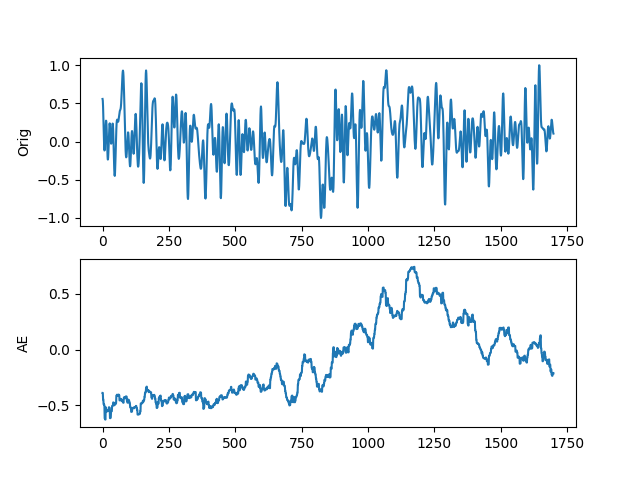
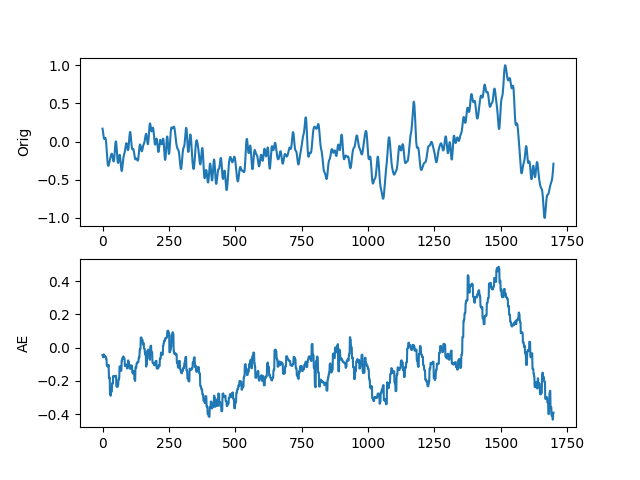
ae updated

diff --git a/utils/utils.py b/utils/utils.py
@@ -27,6 +27,11 @@ begin_time = last_time
 def test(model, dataloader, config, name_str):
     if config.maj_vote:
        return test_majority_voting(model, dataloader, config, name_str)
+    trans_net = None
+    if config.transform != None:
+       trans_net = trans_loader(config)
+       tras_net.eval()
+
     model.eval()
     correct = 0
     total = 0
@@ -35,7 +40,7 @@ def test(model, dataloader, config, name_str):
     with torch.no_grad():
         for batch_idx, (inputs, targets, subjects) in enumerate(dataloader):
             inputs, targets = inputs.to(config.device), targets.to(config.device)
-            outputs = get_outputs(model, inputs, config)
+            outputs = get_outputs(model, inputs, config, transformer=trans_net)
             _, predicted = outputs.max(1)
             #predicted = outputs.round()
             total += targets.size(0)
@@ -55,13 +60,18 @@ def test_majority_voting(model, dataloader, config, name_str):
     model.eval()
     correct = 0
     total = 0
+    trans_net = None
+    if config.transform != None:
+       trans_net = trans_loader(config)
+       trans_net.eval()
+
     results = torch.tensor([]).to(config.device)
     if config.apply_gauss:
        gauss_obj = GaussianFourierFeatureTransform(1, config.mapping_size, 10)
     with torch.no_grad():
         for batch_idx, (inputs, targets, subjects, trials, conditions) in enumerate(dataloader):
             inputs, targets, trials, conditions = inputs.to(config.device), targets.to(config.device), trials.to(config.device), conditions.to(config.device)
-            outputs = get_outputs(model, inputs, config)
+            outputs = get_outputs(model, inputs, config, transformer=trans_net)
             _, predicted = outputs.max(1)
             #predicted = outputs.round()
             total += targets.size(0)
@@ -96,11 +106,13 @@ def test_majority_voting(model, dataloader, config, name_str):
     return 100.*correct/total, subjects
 
 
-def get_outputs(net, inputs, config):
+def get_outputs(net, inputs, config, transformer=None):
     if config.apply_gauss:
        inputs = GaussianFourierFeatureTransform(inputs.reshape(-1,1,config.window_len,config.n_channels),config)
 #    if config.model_type == 'eegnet' or config.model_type == 'shalloweeg':
  #      inputs = inputs.permute(0,2,1)
+    if transformer != None:
+       inputs = transformer.get_feature(inputs)
     if config.model_type == 'capsnet':
        outputs, reconstructions, masked = net(inputs)
        outputs = outputs.reshape(-1,config.n_classes)
@@ -136,7 +148,7 @@ def Normalize(ave, std, x):
     return ((x-ave)/std)
 
 def scale(X):
-    min_des, max_des = -1, 1
+    min_des, max_des = -4, 4
     X_std = (X - X.min(axis=0)) / (X.max(axis=0) - X.min(axis=0))
     X_scaled = X_std * (max_des - min_des) + min_des
     return X_scaled
@@ -164,6 +176,21 @@ def onehot_encode(labels, device):
     onehot_tensor = onehot_tensor.scatter(1, labels.view(-1, 1), 1)
     onehot_tensor = onehot_tensor.to(device)
     return onehot_tensor
+
+def trans_loader(config):
+    if config.transform == 'ae':
+       from models.ae import AE
+       net = AE(config)
+    elif config.transform == 'aelinear':
+       from models.ae_linear import AELinear
+       net = AELinear(config)
+    elif config.transform == 'aelstm':
+       from models.ae_lstm import AEGRU
+       net = AEGRU(config)
+    net = net.to(config.device)
+    net.load_state_dict(torch.load('./checkpoint/Net_'+config.transform+'.pth'))
+    return net
+
 
 def model_loader(config, kernel_size):
     if config.model_type == 'cnn':
@@ -199,6 +226,9 @@ def model_loader(config, kernel_size):
     elif config.model_type == 'aelstm':
        from models.ae_lstm import AEGRU
        return AEGRU(config)
+    elif config.model_type == 'mlp':
+       from models.mlp import MLP
+       return MLP(config)
     else:
        return False
 
@@ -216,7 +246,7 @@ def data_loader(batch_size, num_workers, transform, valid_check, config, add_tri
     testset  = HDF5Dataset('./data/test_'+name_str+'.h5', config, add_trial=add_trial)
 
     trainloader = torch.utils.data.DataLoader(trainset, batch_size=batch_size, shuffle=True,  num_workers=num_workers, pin_memory=True)
-    testloader  = torch.utils.data.DataLoader(testset,  batch_size=batch_size, shuffle=True, num_workers=num_workers, pin_memory=False)
+    testloader  = torch.utils.data.DataLoader(testset,  batch_size=batch_size, shuffle=False, num_workers=num_workers, pin_memory=False)
     if valid_check:
        validloader = torch.utils.data.DataLoader(validset, batch_size=batch_size, shuffle=True, num_workers=num_workers, pin_memory=False)
        return trainloader, validloader, testloader

diff --git a/models/ae_linear.py b/models/ae_linear.py
@@ -4,13 +4,13 @@ import torch.nn as nn
 class Encoder(nn.Module):
     def __init__(self, n_channels, w_shape, h_shape, out_dim):
         super(Encoder, self).__init__()
-        self.fn1   = nn.Linear(n_channels*w_shape*h_shape, 1024)
+        self.fc1   = nn.Linear(n_channels*w_shape*h_shape, 1024)
         self.bn1   = nn.BatchNorm1d(1024)
 
-        self.fn2   = nn.Linear(1024, 128)
+        self.fc2   = nn.Linear(1024, 128)
         self.bn2   = nn.BatchNorm1d(128)
 
-        self.fn3   = nn.Linear(128, out_dim)
+        self.fc3   = nn.Linear(128, out_dim)
 
         self.relu     = nn.ReLU()
         self.tanh     = nn.Tanh()
@@ -18,17 +18,26 @@ class Encoder(nn.Module):
 
     def forward(self, x):
         x   = self.flatten(x)
-        x   = self.relu(self.bn1(self.fn1(x)))
-        x   = self.relu(self.bn2(self.fn2(x)))
-        x   = self.tanh(self.fn3(x))
+        x   = self.relu(self.bn1(self.fc1(x)))
+        x   = self.relu(self.bn2(self.fc2(x)))
+        x   = self.tanh(self.fc3(x))
         return x
 
 class Decoder(nn.Module):
-    def __init__(self, in_dim, out_dim):
+    def __init__(self, in_dim, h_shape, out_dim):
         super(Decoder, self).__init__()
-        self.h_shape, self.in_channels = 415, 1
+        self.h_shape, self.channels = h_shape, out_dim
+#        self.h_shape, self.in_channels = 415, 1
         kernel_size    = 5
-        self.linear    = nn.Linear(in_dim, self.in_channels*self.h_shape)
+        self.fc1    = nn.Linear(in_dim, 256)
+        self.bn1   = nn.BatchNorm1d(256)
+
+        self.fc2   = nn.Linear(256, 512)
+        self.bn2   = nn.BatchNorm1d(512)
+
+        self.fc3   = nn.Linear(512, h_shape*out_dim)
+
+        '''
         self.cnnTrans1 = nn.ConvTranspose1d(self.in_channels, 16, kernel_size=kernel_size)
         self.bn1       = nn.BatchNorm1d(16)
         h_shape   = ((self.h_shape - 1) + (kernel_size - 1) + 1)
@@ -41,18 +50,25 @@ class Decoder(nn.Module):
         self.cnnTrans3 = nn.ConvTranspose1d(32, out_dim, kernel_size=kernel_size)
         self.upsample3 = nn.Upsample(scale_factor=2)
         h_shape   = ((h_shape - 1) + (kernel_size - 1) + 1)*2
+        '''
+
         self.relu      = nn.ReLU()
         self.tanh      = nn.Tanh()
 
     def forward(self, x):
+
+        '''
         x = self.relu(self.linear(x))
         x = x.reshape(-1,self.in_channels,self.h_shape)
         x = self.relu(self.bn1(self.cnnTrans1(x)))
         x = self.relu(self.bn2(self.cnnTrans2(x)))
         x = self.upsample2(x)
         x = self.upsample3(self.cnnTrans3(x))
-        x = self.tanh(x)
-        return x
+        '''
+        x   = self.relu(self.bn1(self.fc1(x)))
+        x   = self.relu(self.bn2(self.fc2(x)))
+        x   = 4*self.tanh(self.fc3(x))
+        return x.reshape(-1,self.channels,self.h_shape)
 
 class AELinear(nn.Module):
     def __init__(self, config):
@@ -62,9 +78,12 @@ class AELinear(nn.Module):
            self.encoder = Encoder(2*config.mapping_size, config.n_channels, config.window_len, out_dim=hidden_dim)
         else:
            self.encoder = Encoder(1, config.n_channels, config.window_len, out_dim=hidden_dim)
-        self.decoder = Decoder(in_dim=hidden_dim, out_dim=config.n_channels)
+        self.decoder = Decoder(in_dim=hidden_dim, out_dim=config.n_channels, h_shape=config.window_len)
 
     def forward(self, x):
         z = self.encoder(x)
         return self.decoder(z)
+
+    def get_feature(self, x):
+        return self.encoder(x)
 

diff --git a/ae_pred.py b/ae_pred.py
@@ -16,16 +16,18 @@ parser.add_argument('--transform', default="", type=str, help='Apply transform (
 parser.add_argument('--maj_vote', action='store_true', default=False, help='Majority Voting')
 args = parser.parse_args()
 
-best_acc = 0
+channel = 12
+sample  = 12
 
 config = Config(args.model_type)
 _, _, testloader = data_loader(args.batch_size, args.num_workers, args.transform,\
                                                    config.apply_valid_set,add_trial=args.maj_vote,config=config)
 config.device=args.device
+config.model_type=args.model_type
 net = model_loader(config, args.kernel_size)
 net = net.to(args.device)
 #net = torch.nn.DataParallel(net)
-net.load_state_dict(torch.load('./checkpoint/Net.pth'))
+net.load_state_dict(torch.load('./checkpoint/Net_'+config.model_type+'.pth'))
 
 inputs, targets, _ = next(iter(testloader))
 
@@ -33,10 +35,10 @@ outputs = net(inputs.to(args.device))
 
 fig = plt.figure(1)
 axs = fig.subplots(2, 1)
-axs[0].plot(inputs[0][0].cpu().detach().numpy())
+axs[0].plot(inputs[sample][channel].cpu().detach().numpy())
 axs[0].set_ylabel("Orig")
-axs[1].plot(outputs[0][0].cpu().detach().numpy())
+axs[1].plot(outputs[sample][channel].cpu().detach().numpy())
 axs[1].set_ylabel("AE")
-plt.savefig('./Figs/AE_orig.png')
+plt.savefig('./Figs/AE_orig_c'+str(channel)+'_s'+str(sample)+'.png')
 plt.show()
 plt.close()

diff --git a/main.py b/main.py
@@ -33,7 +33,12 @@ trainloader, validloader, _ = data_loader(args.batch_size, args.num_workers, arg
 net = model_loader(config,args.kernel_size)
 #net= nn.DataParallel(net)
 net = net.to(args.device)
+net.load_state_dict(torch.load('./checkpoint/Net_'+config.model_type+'.pth'))
 net.eval()
+
+trans_net = None
+if config.transform != "":
+   trans_net = trans_loader(config)
 
 pytorch_total_params = sum(p.numel() for p in net.parameters() if p.requires_grad)
 print(f'Number of Parameters: {pytorch_total_params}')
@@ -59,7 +64,7 @@ def train():
         inputs, targets = inputs.to(args.device), targets.to(args.device)
 
         optimizer.zero_grad()
-        outputs = get_outputs(net, inputs,config)
+        outputs = get_outputs(net, inputs,config, transformer=trans_net)
         if 'ae' in config.model_type:
            loss = criterion(outputs, inputs)
         else:
@@ -89,7 +94,7 @@ for epoch in range(1,args.n_epochs):
        best_acc = clean_acc
     if (clean_acc >= best_acc):
        print('Saving..')
-       torch.save(net.state_dict(), './checkpoint/Net.pth')
+       torch.save(net.state_dict(), './checkpoint/Net_'+config.model_type+'.pth')
        best_acc = clean_acc
 
 

diff --git a/models/mlp.py b/models/mlp.py
@@ -1,0 +1,23 @@
+import torch
+import torch.nn as nn
+
+class MLP(nn.Module):
+    def __init__(self, config):
+        super(MLP, self).__init__()
+        self.fn1   = nn.Linear(120, 60)
+        self.bn1   = nn.BatchNorm1d(60)
+
+        self.fn2   = nn.Linear(60, 30)
+        self.bn2   = nn.BatchNorm1d(30)
+
+        self.fn3   = nn.Linear(30, config.n_classes)
+
+        self.relu     = nn.ReLU()
+        self.sigmoid = nn.LogSoftmax(dim=1)
+
+    def forward(self, x):
+        x   = self.relu(self.bn1(self.fn1(x)))
+        x   = self.relu(self.bn2(self.fn2(x)))
+        x   = self.sigmoid(self.fn3(x))
+        return x
+

diff --git a/test_performance.py b/test_performance.py
@@ -21,10 +21,11 @@ trainloader, validloader, testloader = data_loader(args.batch_size, args.num_wor
                                                    config.apply_valid_set,add_trial=args.maj_vote,config=config)
 config.device=args.device
 config.maj_vote = args.maj_vote
+config.transform = args.transform
 net = model_loader(config, args.kernel_size)
 net = net.to(args.device)
 #net = torch.nn.DataParallel(net)
-net.load_state_dict(torch.load('./checkpoint/Net.pth'))
+net.load_state_dict(torch.load('./checkpoint/Net_'+config.model_type+'.pth'))
 
 #net = net.to(args.device)
 

diff --git a/utils/config.py b/utils/config.py
@@ -9,7 +9,7 @@ class Config:
           self.n_trial      = 36  # For Imaginary it should be 22
           self.file_path    = './data/'  # Path to save the h5 files
           self.n_classes    = 2
-          self.preprocess_normalize = False
+          self.preprocess_normalize = True
           self.preprocess_scale = True
           self.device       = 'cuda:0'
           self.apply_valid_set = False

diff --git a/mat2h5Conversion.py b/mat2h5Conversion.py
@@ -28,7 +28,8 @@ else:
 print(f'Test Subjects:  {config.test_subjects}')
 print(f'Train Subjects: {config.train_subjects}')
 
-path = config.file_path + "SF_"+config.data_path+"_MLdata.mat"
+#path = config.file_path + "SF_"+config.data_path+"_MLdata.mat"
+path = config.file_path + "SF_"+config.data_path+"_data_nopre.mat"
 
 def find_subjects_list(data_type):
     if data_type == 'train':

diff --git a/models/ae_lstm.py b/models/ae_lstm.py
@@ -78,3 +78,5 @@ class AEGRU(nn.Module):
         z = self.encoder(x)
         return self.decoder(z)
 
+    def get_feature(self, x):
+        return self.encoder(x)

diff --git a/models/ae.py b/models/ae.py
@@ -69,3 +69,5 @@ class AE(nn.Module):
         z = self.encoder(x)
         return self.decoder(z)
 
+    def get_feature(self, x):
+        return self.encoder(x)
